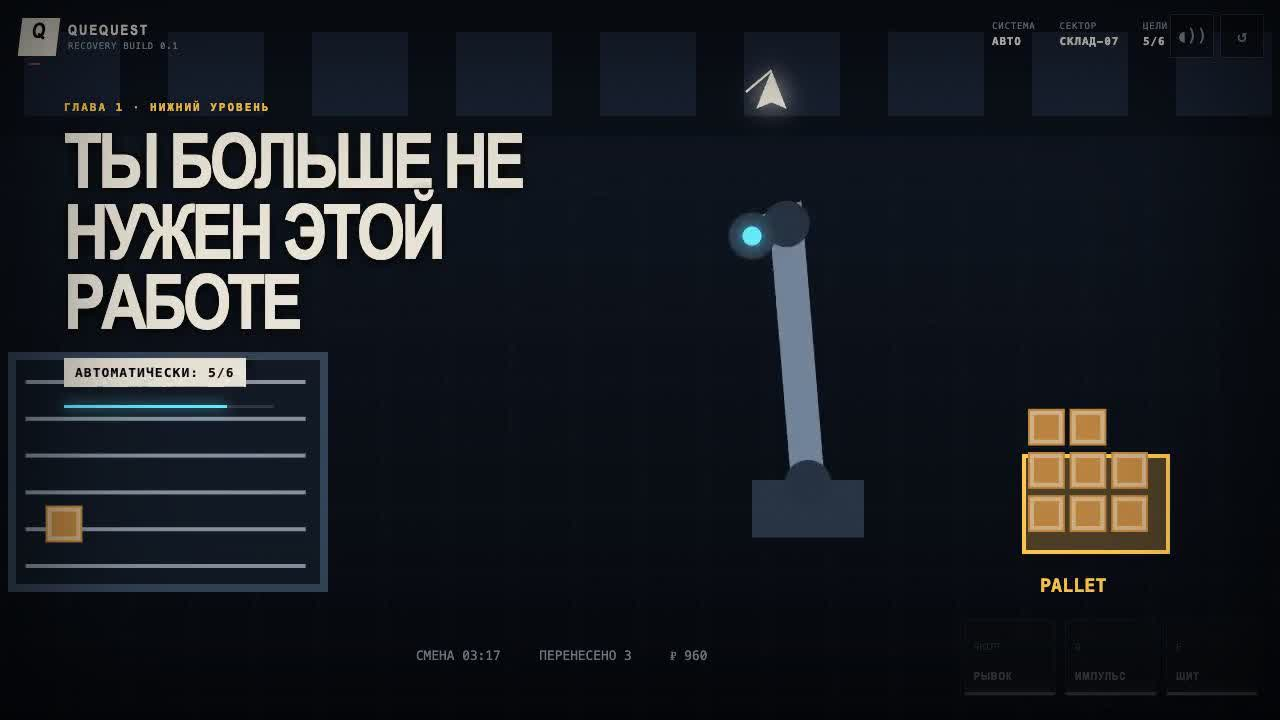
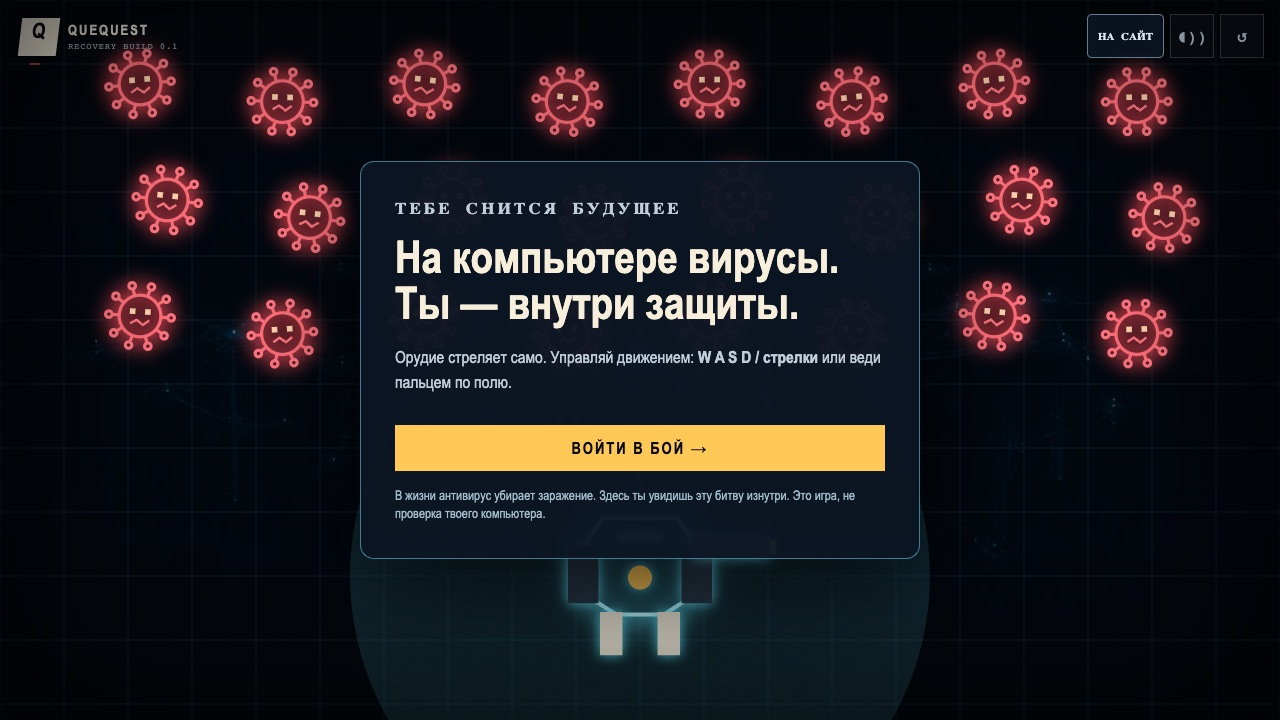
site: show current QueQuest prologue

diff --git a/index.html b/index.html
@@ -214,7 +214,7 @@
           <article class="quequest-card" aria-labelledby="quequest-title">
             <div class="quequest-stage">
               <a class="quequest-visual" id="quequest-visual" href="/qa-quest/" data-quequest-play data-umami-event="project-open" data-umami-event-project="qa-quest" aria-label="Открыть игру QueQuest">
-                <img class="quequest-poster" loading="lazy" src="/assets/shots/quequest-automation.jpg?v=9bc4030f" alt="Механическая рука QueQuest переносит ящик на заполненную паллету" width="1280" height="720" decoding="async">
+                <img class="quequest-poster" loading="lazy" src="/assets/shots/quequest-automation.jpg?v=e39314da" alt="Герой QueQuest внутри защиты компьютера окружён вирусами" width="1280" height="720" decoding="async">
                 <video class="quequest-video" muted playsinline preload="none" data-src="/assets/clips/clip-quequest-manual-to-ai.webm?v=8a8d710e" aria-hidden="true"></video>
               </a>
               <button class="quequest-play-btn" type="button" data-quequest-play-for="quequest-visual">Показать переход <b aria-hidden="true">→</b></button>
@@ -222,7 +222,7 @@
             <div class="quequest-copy">
               <div class="quequest-left">
                 <div class="quequest-heading"><img src="/assets/qa-quest-server-core.png?v=efbcb86e" alt="Знак QueQuest" width="128" height="128" loading="lazy" decoding="async"><p class="kicker">Игра · Python</p></div>
-                <p class="tagline">Таскаешь ящики за бабки. Мож научишься прогать, чтоб tаskали за тебя?</p>
+                <p class="tagline">Вирусы лезут в компьютер, а ты оказываешься внутри защиты. Потом возвращаешь способности через настоящий Python и передаёшь машине только разрешённую работу</p>
               </div>
               <h3 id="quequest-title"><a href="/qa-quest/" data-umami-event="project-open" data-umami-event-project="qa-quest">QueQuest</a></h3>
               <a class="quequest-open" href="/qa-quest/" data-umami-event="project-open" data-umami-event-project="qa-quest">Открыть игру <b aria-hidden="true">↗</b></a>
